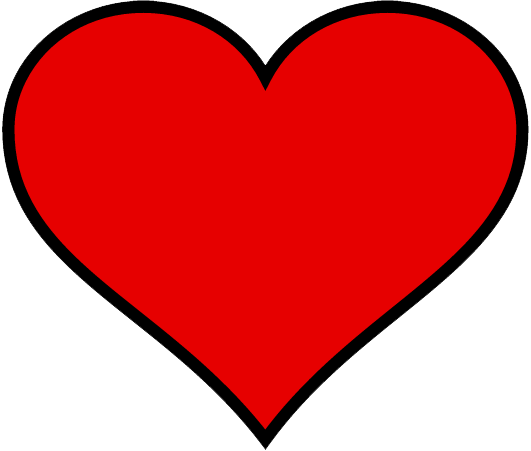
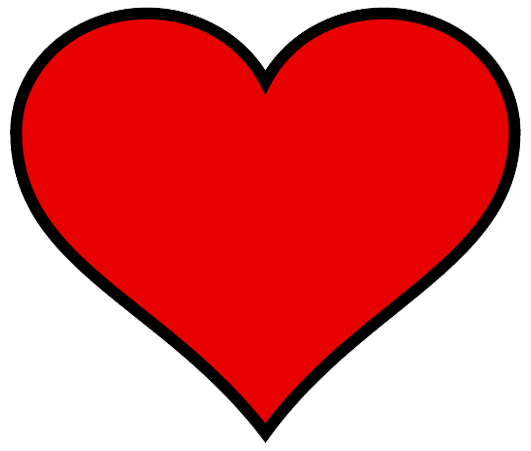
7 - cambio

Changed region(s): [[0.0, 0.0, 1.0, 0.9933]]

diff --git a/js/gralCorazon.js b/js/gralCorazon.js
@@ -7,30 +7,49 @@ $(document).ready(function(){
             location.href="index.html";
     });
 
-    $(".saca img, .saca").click(function(){
+    $(".contenedorCorazon").width(parseInt($(window).width()));
+
+    $(".saca img, .aca,.contenidoCorazonTexto").click(function(){
+
         n1 = $("input[name=nombre1]").val();
         n2 = $("input[name=nombre2]").val();
         if(n1 != "" && n2 != "")
         {
-            $(".estilosde").fadeOut("fast");
-            com1 = n1.length;
-            com2 = n2.length;
-
-            if(com1>=com2)
+            if( $(".contenidoCorazon img,").hasClass("loop") )
             {
-                cien = com1;
-                saca = com2;
+                $("input[name=nombre1]").val("");
+                $("input[name=nombre2]").val("");
+                $(".estilosde").show();
+                $(".contenidoCorazon img").removeClass("loop");
+                $(".contenidoCorazonTexto").html("");
             }
             else
             {
-                cien = com2;
-                saca = com1;
+
+                $(".estilosde").hide();
+                com1 = n1.length;
+                com2 = n2.length;
+
+                if(com1>=com2)
+                {
+                    cien = com1;
+                    saca = com2;
+                }
+                else
+                {
+                    cien = com2;
+                    saca = com1;
+                }
+
+                porcent  = Math.round(Math.random()*90) * cien / 100;
+                while(porcent<2)
+                {
+                    porcent  = Math.round(Math.random()*90) * cien / 100;
+                }
+
+                    $(".contenidoCorazonTexto").html('Coinciden en un '+parseInt(porcent)+'0%').show();
+                    $(".contenidoCorazon img").addClass("loop");
             }
-
-            porcent  = Math.round(Math.random()*90) * cien / 100;
-
-            $(".contenidoCorazonTexto").html('Coinciden en un '+parseInt(porcent)+'0%').show();
-            $(".contenidoCorazon img").addClass("loop");
         }
         else
             alert("Complete los nombres para saber tu coincidencia.");

diff --git a/index.html b/index.html
@@ -39,20 +39,21 @@
 </head>
 
 <body onload="">
-    <div class="volver botonVerMas1">volver</div>
+    <!-- <div class="volver botonVerMas1">volver</div> -->
+    <br>
     <div class="contenedorCorazon">
-      <form name="compara">
+      <form name="compara" class="floatLeft w100" style="position: relative; z-index:4;margin-bottom:42px;">
         <input type="text" name="nombre1" placeholder="Tu nombre" class="floatLeft"/>
         <input type="text" name="nombre2" placeholder="Su nombre" class="floatRight"/>
       </form>
-      <div class="contenidoCorazon saca floatLeft">
-                <div class="positionAbsolute contenidoCorazonTexto oculto">
+      <div class="contenidoCorazon saca margin0auto"  style="width:531px; position:relative; z-index:2;">
+                <div class="positionAbsolute contenidoCorazonTexto oculto " style="margin-top:212px !important;">
                   Coinciden en un 51%
                 </div>
-                 <div class="positionAbsolute botonVerMas1 estilosde saca">
+                 <div class="positionAbsolute botonVerMas1 estilosde saca aca" style="margin-top:212px !important;">
                   Saber compatibilidades
                 </div>
-          <img src="corazon.png" />
+          <img src="corazon.png" class="margin0auto" style="width:531px"/>
       </div>
     </div>
 </body>

diff --git a/css/style.css b/css/style.css
@@ -9,8 +9,8 @@ svg{width:100% !important;}
 	-o-transform: scale(1) translateY(-63px) translateX(-99px);
 	transform: scale(1) translateY(-63px) translateX(-99px);
 }
-.contenidoCorazon{margin-top:64px;-webkit-transition-property:-webkit-transform, all; -webkit-transition-duration:1s; -webkit-transition-timing-function:ease;}
-input{ background:#ffffff !important; width:40% !important; padding:4px !important; height:22px !important; border:1px solid #3b3b3b;}
+.contenidoCorazon{-webkit-transition-property:-webkit-transform, all; -webkit-transition-duration:1s; -webkit-transition-timing-function:ease;}
+input{ background:#ffffff !important; width:40% !important; padding:4px !important; height:22px !important; border:1px solid #3b3b3b; border-radius: 6px;font-size: 16px; text-align: center;}
 .contenidoCorazonTexto{font-size: 28px; font-family: arial; font-weight: bold; margin-left: 107px; width: 297px; text-align: center; margin-top: 153px; z-index: 1; color: #ffffff;}
 .estilosde{font-size: 23px; font-family: arial; font-weight: bold; margin-left: 120px !important; width: 247px; text-align: center; margin-top: 153px !important; z-index: 1; color: #ffffff;}
 .loop {
